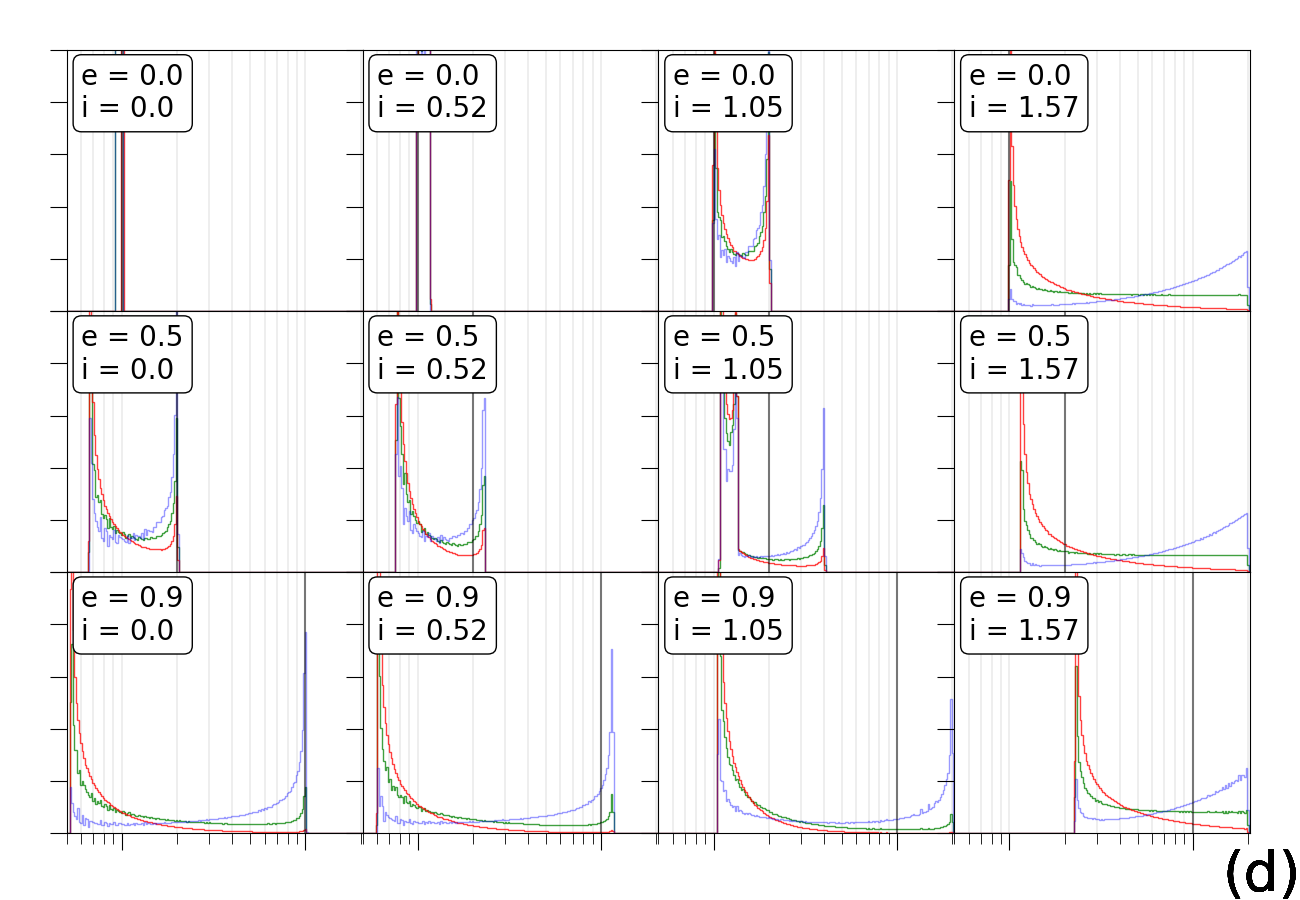
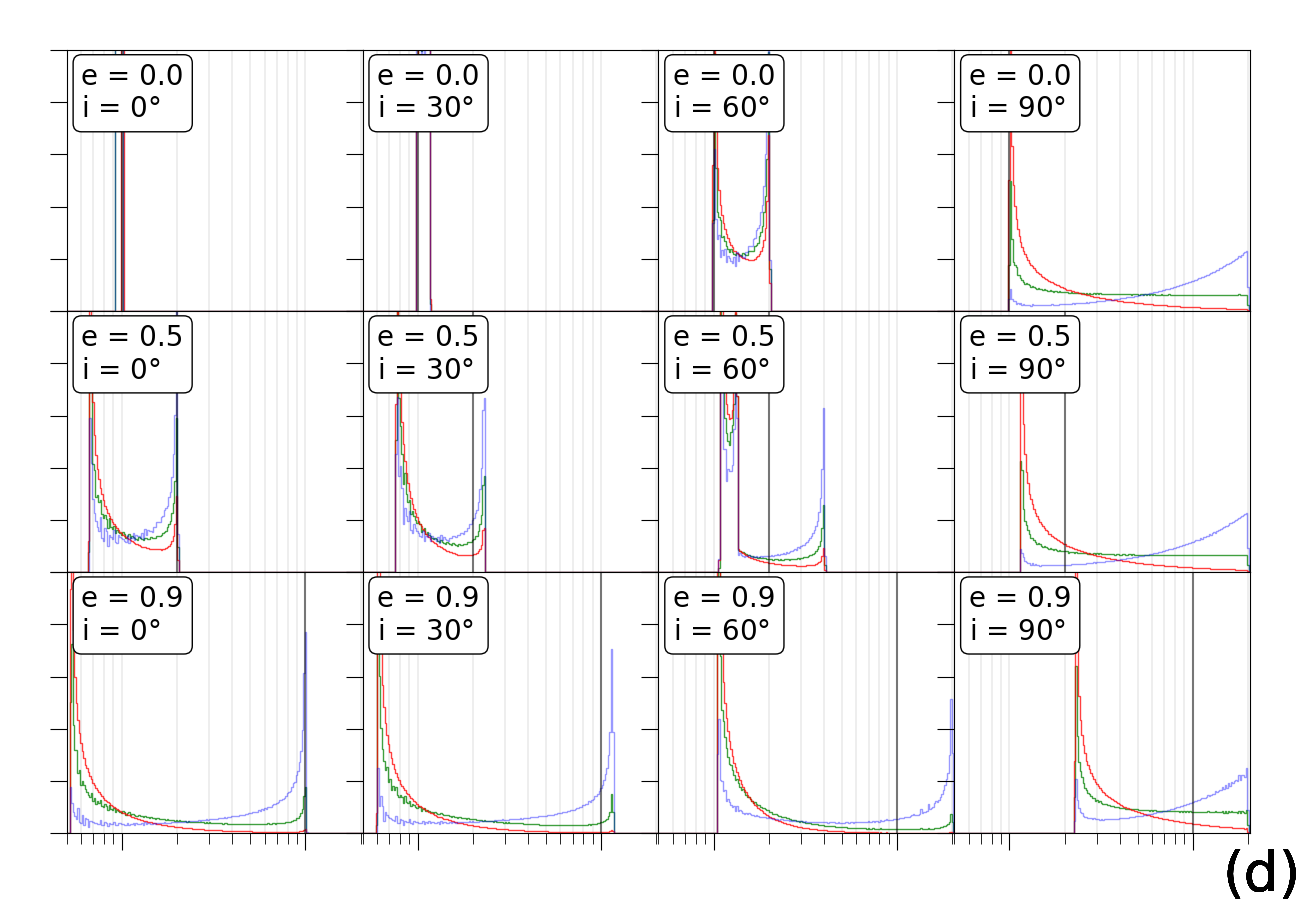
- Made MultiHist Plots in degrees
- Added data for linear's marginalization of omega and inclination and plotted it

diff --git a/Sep_plot.py b/Sep_plot.py
@@ -640,7 +640,7 @@ class Sep_plot(Sep_gen):
             else:
                 labels = ["Linear", "Log", r"Power Law: $\alpha = 2$", r"Expected Peak $e$"]
                 
-            axs.legend(handles = handles, labels = labels, loc = "upper right", fontsize = 20)
+            axs.legend(handles = handles, labels = labels, loc = "upper right", fontsize = 25)
             plt.figtext(0.93, 0.01, "(b)", fontsize = 30)
             fig.tight_layout()
 
@@ -1891,8 +1891,8 @@ if __name__ == "__main__":
     test = False
     unity = False
     dist = ""
-    specify = []
-    # specify = [0.5, np.pi/3]
+    # specify = []
+    specify = [0.5, np.pi/3]
     tothist = Sep_plot(numestep=numestep, numdiv=numdiv, wnum = wnum)
     # rlist = tothist.MultiPlotProj(w = 0, start = 0.5, end = 20, step = 0.5, specify = specify)
     # specify = [eccentricity, inclination]
